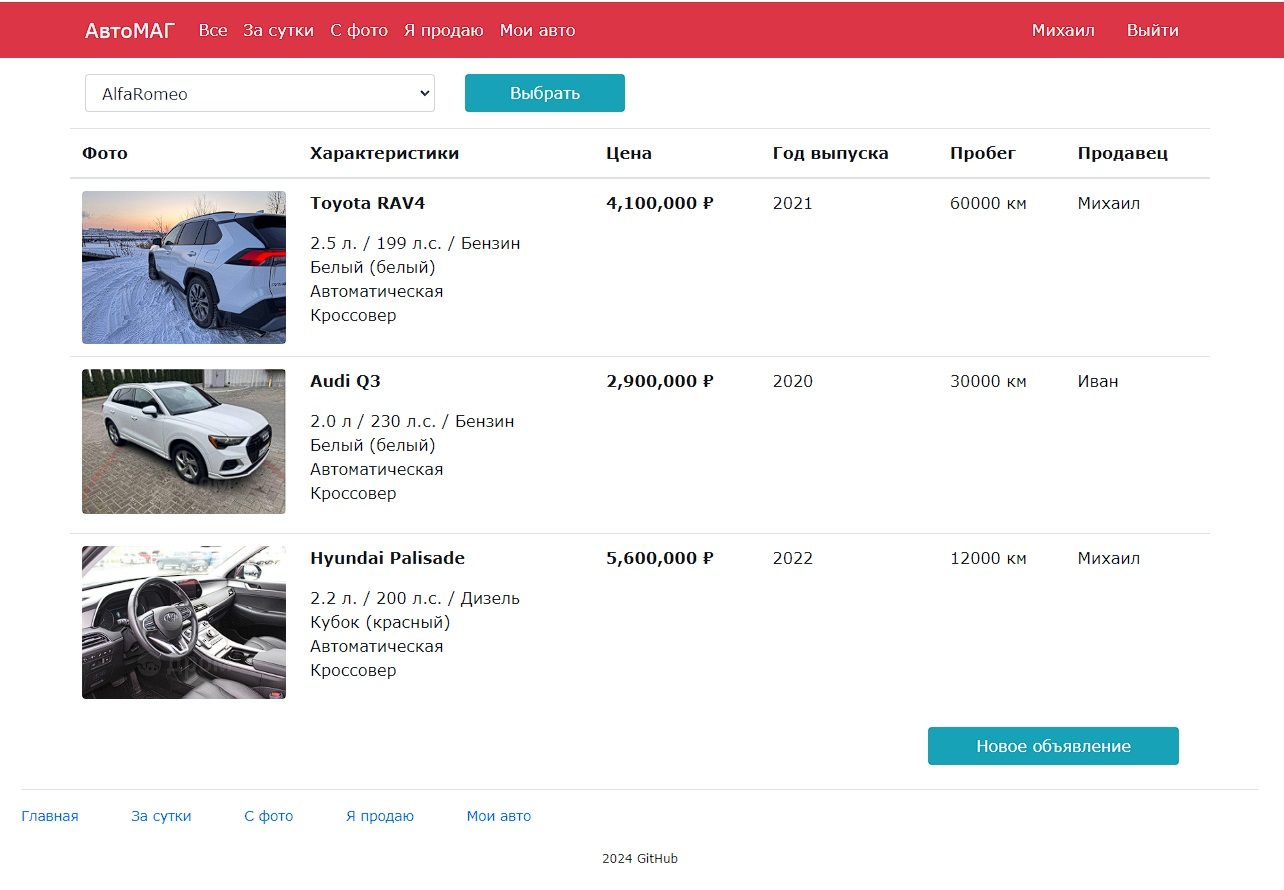
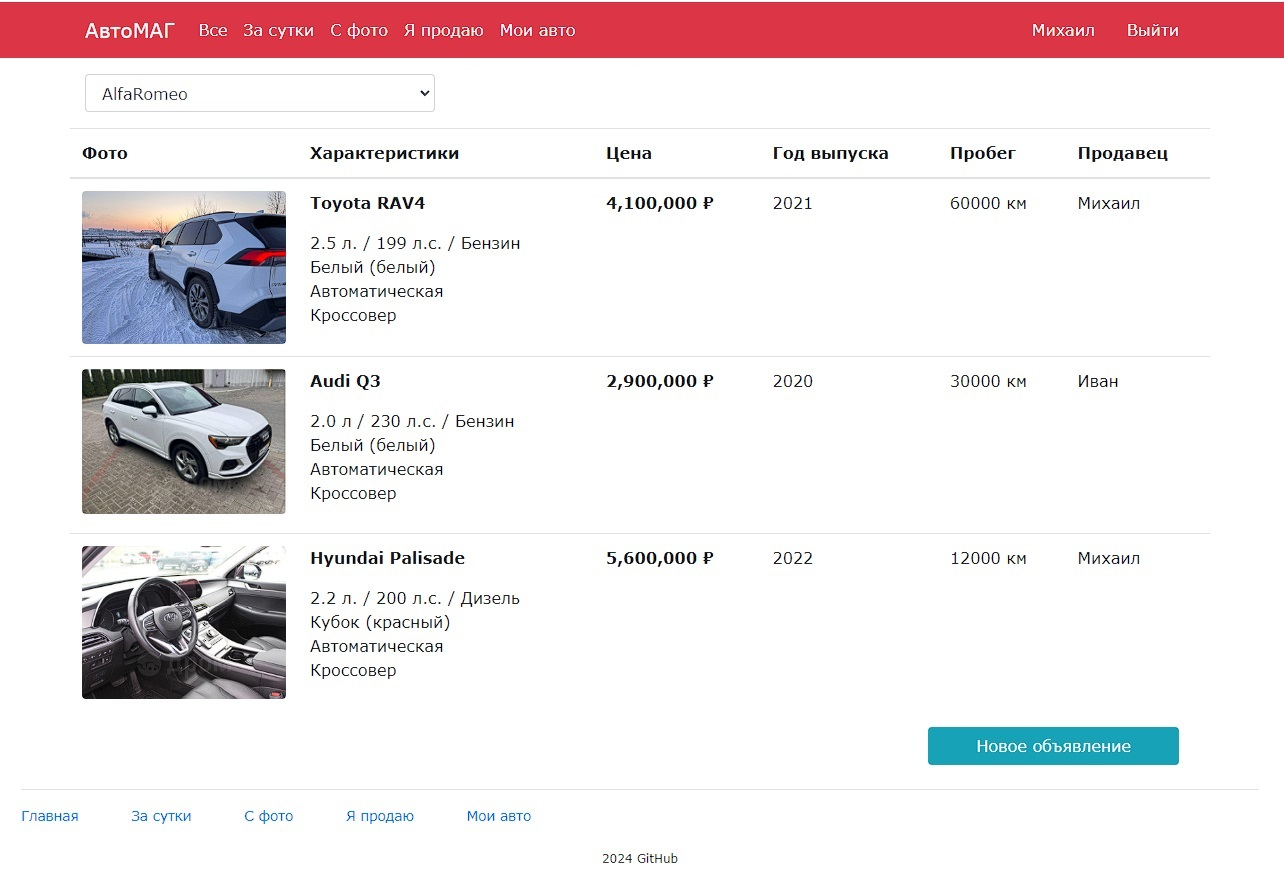
Убрал Submit со страницы со списком объявлений.

Changed region(s): [[0.3427, 0.0607, 0.4984, 0.1517]]

diff --git a/src/main/resources/templates/index.html b/src/main/resources/templates/index.html
@@ -17,13 +17,10 @@
                 <form class="mt-3 col-12" th:action="@{/posts/brand}" method="post">
                     <div class="row">
                         <div class="mb-3 col-4">
-                            <select class="form-control" id="Brand" name="brandId" required>
+                            <select class="form-control" id="Brand" name="brandId" onchange="this.form.submit()" nrequired>
+                                <option selected="selected">--Выбрать бренд--</option>
                                 <option th:each="brand : ${brands}" th:value="${brand.id}" th:text="${brand.name}"></option>
                             </select>
-                        </div>
-
-                        <div class="col-2">
-                            <button class="btn btn-info w-100" type="submit">Выбрать</button>
                         </div>
                     </div>
                 </form>
